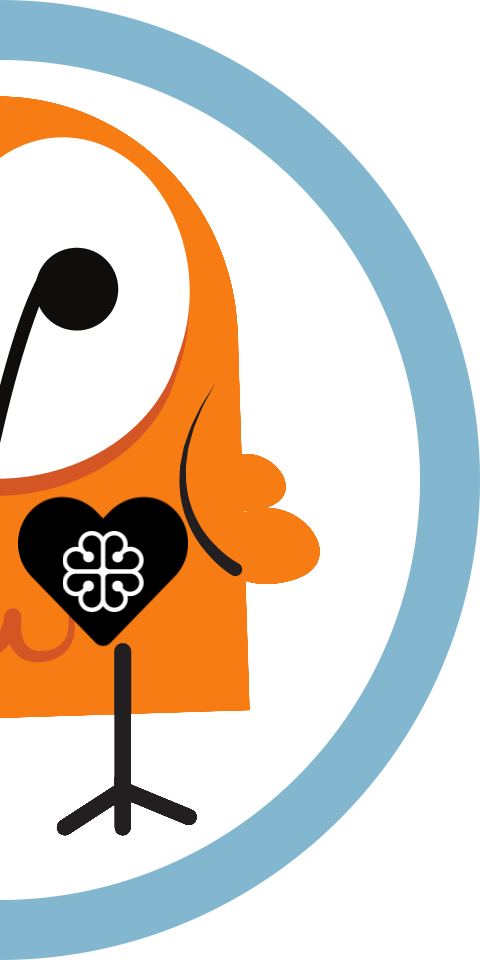
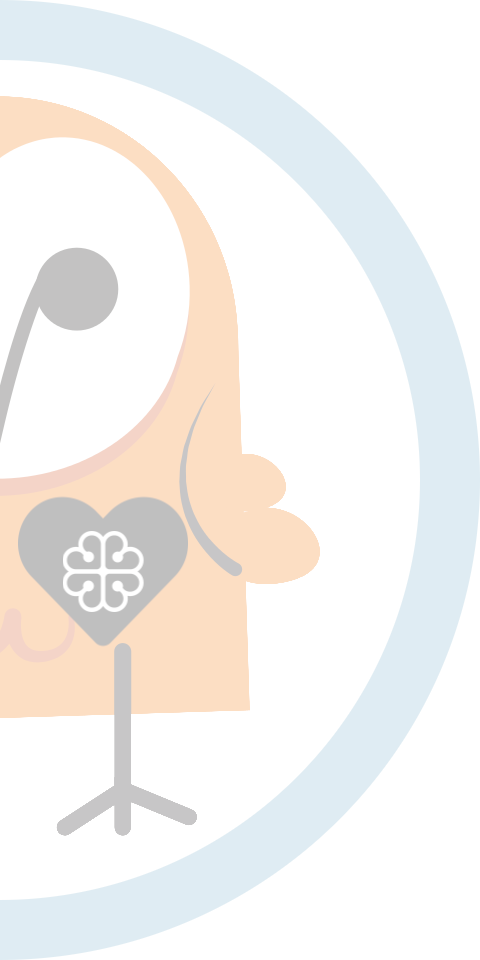
Established Fait au Quebec and added Herowl++ to Made in Montreal

diff --git a/style/heroes.css b/style/heroes.css
@@ -86,6 +86,10 @@
   background-image: url('/images/herowl-press.png');
 }
 
+.herowl-quebec {
+  background-image: url('/images/herowl-quebec.png');
+}
+
 .herowl-reelyapp {
   background-image: url('/images/herowl-reelyapp.png');
 }